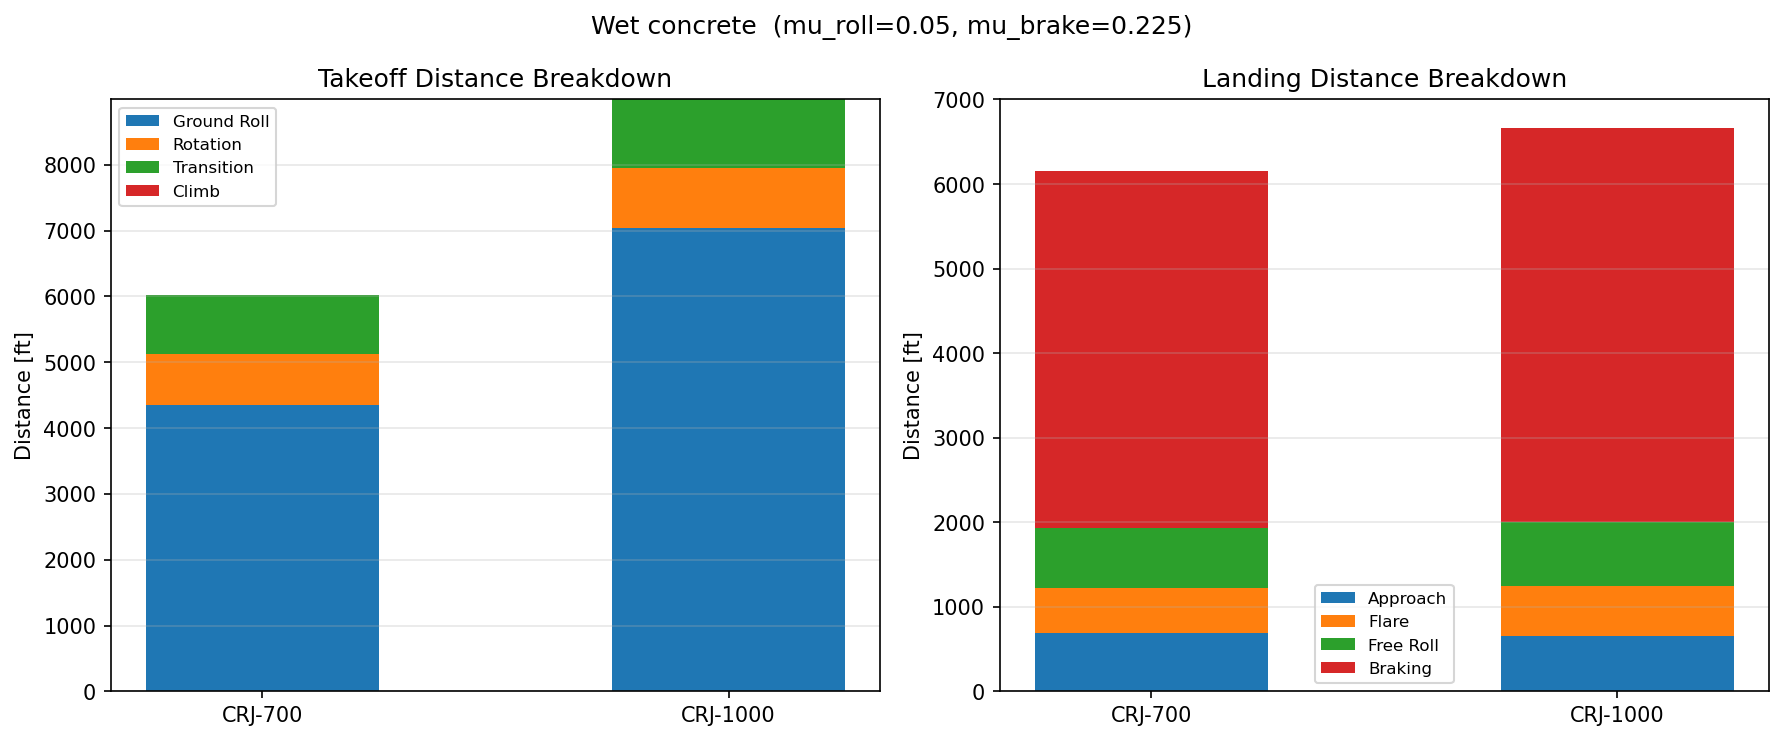
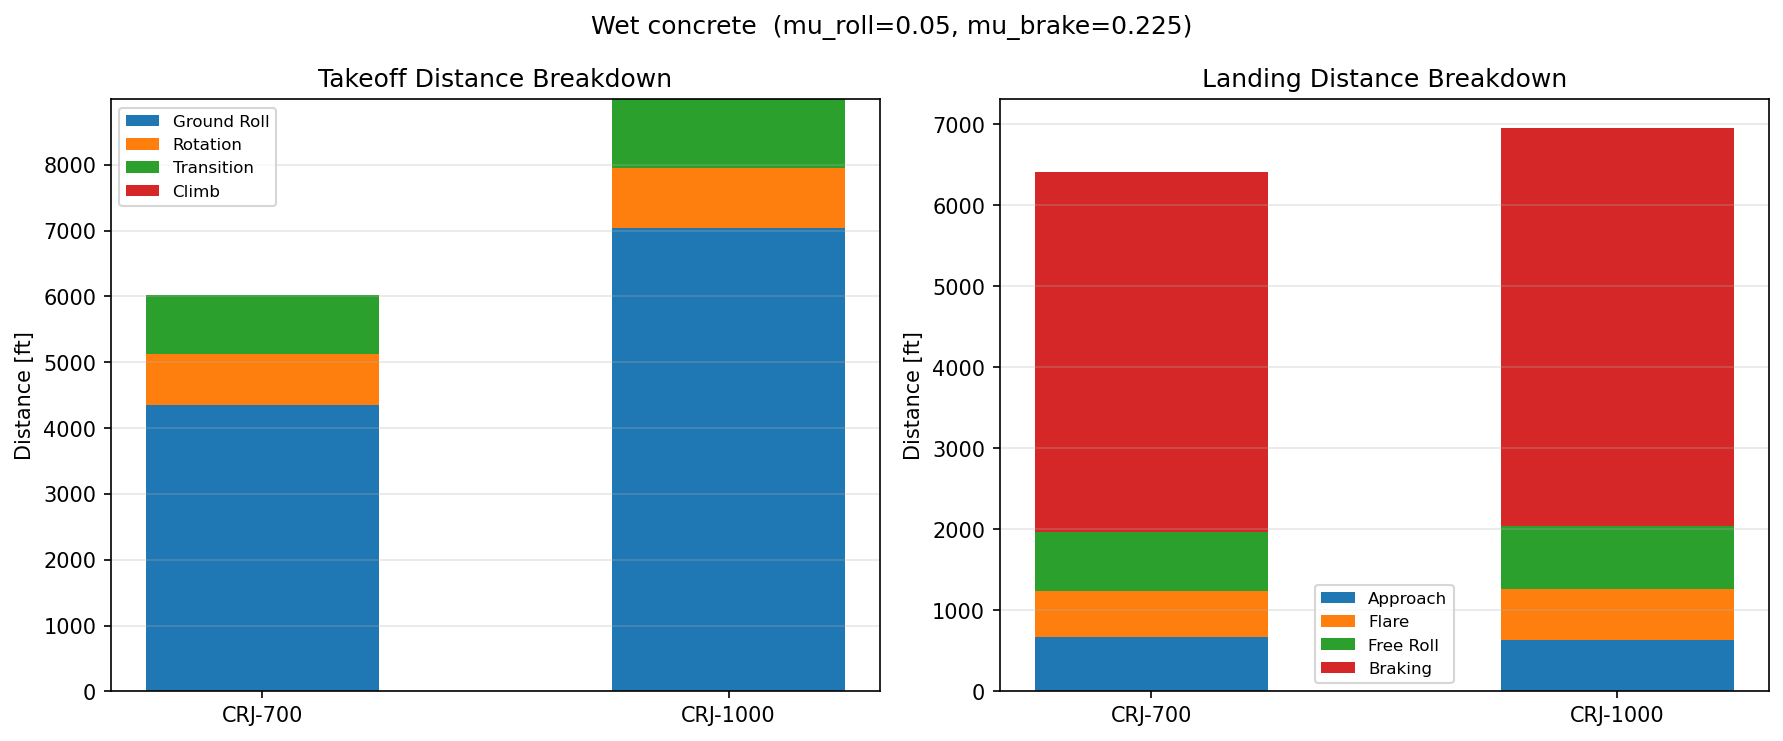
Change landing weight fraction from 85% to 90% MTOW and regenerate
Updated W_landing property in base.py, fixed labels in full_analysis.py,
regenerated all charts and analysis output for both CRJ and ZRJ families.

diff --git a/examples/full_analysis.py b/examples/full_analysis.py
@@ -131,7 +131,7 @@ def analyse(ac):
     vs_land  = V_stall(ac.W_landing, S, rho_sl, ac.CL_max_L)
     print(f"\n  V_stall clean (SL): {fps_to_kts(vs_clean):.1f} kts")
     print(f"  V_stall TO   (SL): {fps_to_kts(vs_to):.1f} kts")
-    print(f"  V_stall land (SL): {fps_to_kts(vs_land):.1f} kts  (at 85% MTOW)")
+    print(f"  V_stall land (SL): {fps_to_kts(vs_land):.1f} kts  (at 90% MTOW)")
 
     # Maximum speed (Sec. 17.2.3)
     v_max_sl = V_max(W, S, rho_sl, CD0, K, ac.T_max_SL)
@@ -473,7 +473,7 @@ def analyse(ac):
     print(f"    V_approach (1.3 Vs)   : {fps_to_kts(la['V_approach']):.1f} kts")
     print(f"    V_touchdown (1.15 Vs) : {fps_to_kts(la['V_TD']):.1f} kts")
 
-    print(f"\n  Landing weight          : {W_land:,.0f} lb  (85% MTOW)")
+    print(f"\n  Landing weight          : {W_land:,.0f} lb  (90% MTOW)")
     print(f"    Approach distance     : {la['S_approach']:,.0f} ft")
     print(f"    Flare distance        : {la['S_flare']:,.0f} ft")
     print(f"    Free roll             : {la['S_free_roll']:,.0f} ft")

diff --git a/data/base.py b/data/base.py
@@ -84,8 +84,8 @@ class AircraftData:
     # ---- Derived helpers ----
     @property
     def W_landing(self):
-        """Typical landing weight ~ 85% MTOW (Raymer Ch.17)."""
-        return 0.85 * self.W_TO
+        """Typical landing weight ~ 90% MTOW."""
+        return 0.90 * self.W_TO
 
     @property
     def wing_loading(self):

diff --git a/README.md b/README.md
@@ -91,11 +91,11 @@ All three share the same wing (AR 7.8, 22.9 deg sweep) and engine (2x PW1200G, 3
   BFL Eq.17.113 (ft)                   2,589         3,872         4,520
   TOFL FAR 25 (ft)                     2,677         3,884         4,471
   TOFL ISA+20 (ft)                     2,904         4,261         4,923
-  LDR (ft)                             2,293         2,613         2,742
-  LDR FAR (ft)                         3,822         4,355         4,570
-  LDR wet (ft)                         4,395         5,008         5,255
-  LDR steep 5.5 (ft)                   3,246         3,825         4,059
-  Max glideslope (deg)                   9.0           7.8           7.5
+  LDR (ft)                             2,355         2,691         2,827
+  LDR FAR (ft)                         3,924         4,486         4,712
+  LDR wet (ft)                         4,513         5,159         5,419
+  LDR steep 5.5 (ft)                   3,358         3,968         4,215
+  Max glideslope (deg)                   8.7           7.6           7.3
 ```
 
 ### MR&O Performance Attributes
@@ -115,14 +115,14 @@ All three share the same wing (AR 7.8, 22.9 deg sweep) and engine (2x PW1200G, 3
 | | Single engine climb | 19.6% | 13.5% | 11.4% |
 | **Weight & Payload** | Max. payload, lbs | 11,350 | 20,347 | 26,092 |
 | | Passengers (<100 PAX market segment) | 50 | 76 | 96 |
-| | Max. landing weight (~85% MTOW) | 55,250 | 72,263 | 79,267 |
+| | Max. landing weight (~90% MTOW) | 58,500 | 76,514 | 83,930 |
 | **Airfield Performance** | TOFL, ISA, SL (MTOW) | 2,677 ft | 3,884 ft | 4,471 ft |
 | | TOFL, ISA+20, SL (MTOW) | 2,904 ft | 4,261 ft | 4,923 ft |
-| | LD FAR (dry), ISA, SL (MLW) | 3,822 ft | 4,355 ft | 4,570 ft |
-| | LD FAR (wet), ISA, SL (MLW) | 4,395 ft | 5,008 ft | 5,255 ft |
+| | LD FAR (dry), ISA, SL (MLW) | 3,924 ft | 4,486 ft | 4,712 ft |
+| | LD FAR (wet), ISA, SL (MLW) | 4,513 ft | 5,159 ft | 5,419 ft |
 | | Steep approach capability (MLW) | Yes | Yes | Yes |
-| | LDR FAR steep 5.5 deg (MLW) | 3,246 ft | 3,825 ft | 4,059 ft |
-| | Max feasible glideslope | 9.0 deg | 7.8 deg | 7.5 deg |
+| | LDR FAR steep 5.5 deg (MLW) | 3,358 ft | 3,968 ft | 4,215 ft |
+| | Max feasible glideslope | 8.7 deg | 7.6 deg | 7.3 deg |
 | | Rate of climb [SL, AEO / OEI] | 17,672 / 6,003 fpm | 13,420 / 4,464 fpm | 11,958 / 3,915 fpm |
 | | Glideslope | 3.0 deg | 3.0 deg | 3.0 deg |
 
